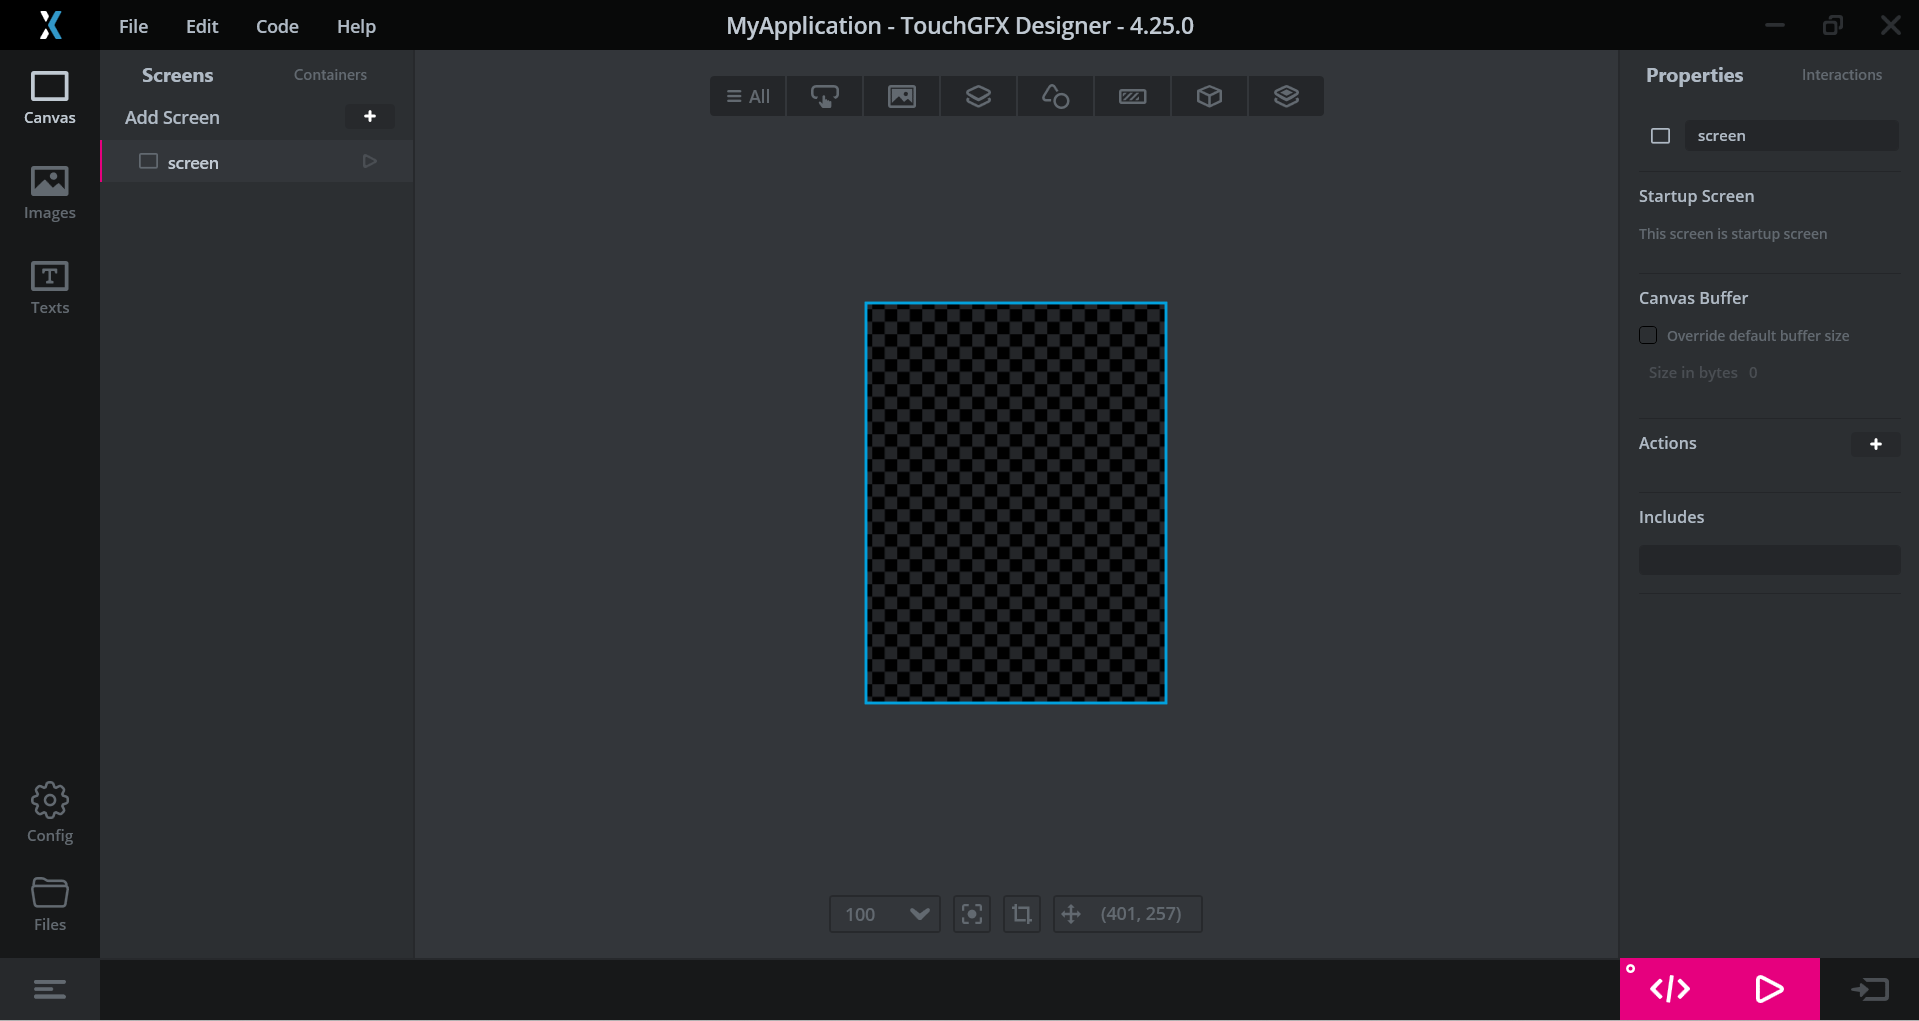
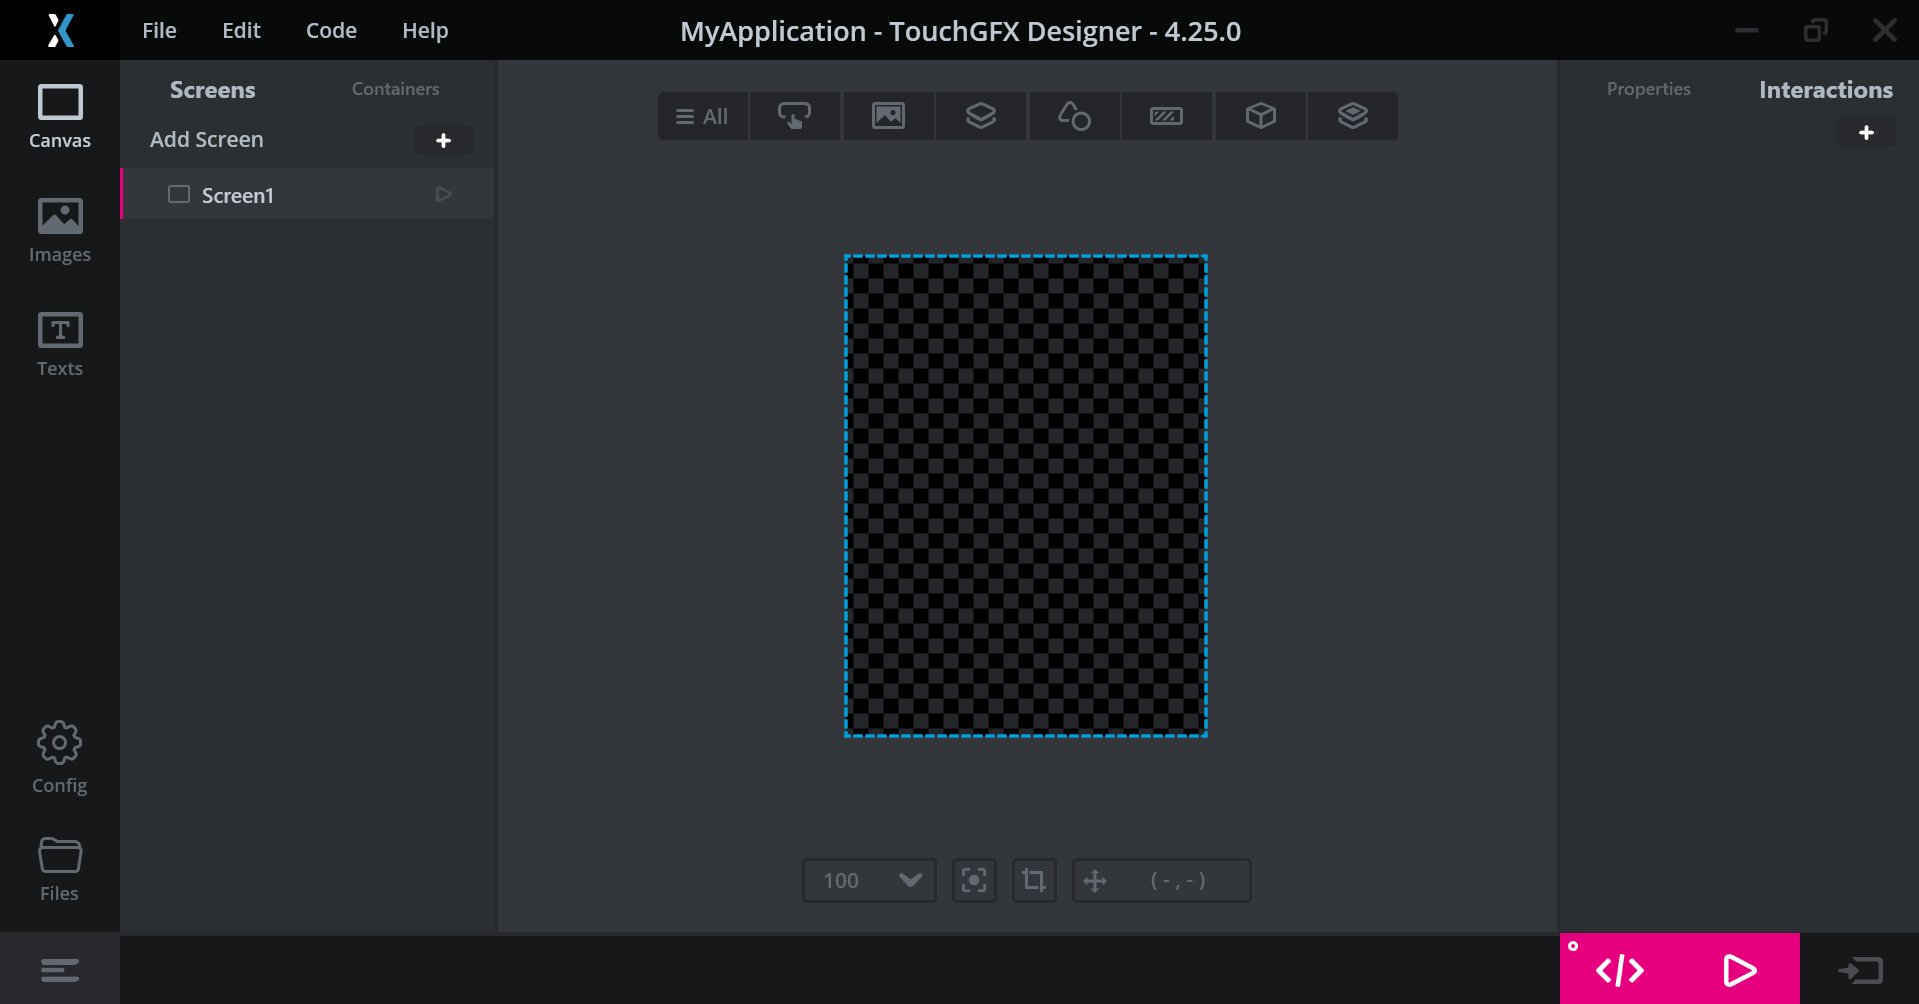
docs: fixed-docs

diff --git a/TouchGFX_Tutorial/BasicDemo.md b/TouchGFX_Tutorial/BasicDemo.md
@@ -32,7 +32,7 @@ Kısacası hem fiziksel butonla hem de ekrandaki butonlarla etkileşim kurduğum
     </div>
    <br />
 
-4- Böylece grafik arayüzümüzü tasarlayacağımız TouchGFX Designer ekranı açılmış oluyor. Oluşan screen'in adını Screen1 olarak değiştiriyoruz.
+4- Böylece grafik arayüzümüzü tasarlayacağımız TouchGFX Designer ekranı açılmış oluyor.
 
    <div align="center">
     <img width="50%" height="80%" src="../Documents/Images/BasicDemo/bos_project.png">
@@ -40,42 +40,37 @@ Kısacası hem fiziksel butonla hem de ekrandaki butonlarla etkileşim kurduğum
    <br />
 
 ## Adım 2: Arayüz Tasarımını Yapmak
-1- Öncelikle oluşan screen'in adını Screen1 olarak değiştiriyoruz.
 
-   <div align="center">
-    <img width="50%" height="80%" src="../Documents/Images/BasicDemo/screen_rename.png">
-    </div>
-   <br />
 
-2- Daha sonra ilk olarak arkaplan görseli ekleyerek başlıyoruz. Widget Panel'den Images alanından image öğesini ekliyoruz.
+1- İlk olarak arkaplan görseli ekleyerek başlıyoruz. Widget Panel'den Images alanından image öğesini ekliyoruz.
 
    <div align="center">
     <img width="50%" height="80%" src="../Documents/Images/BasicDemo/add_images.png">
     </div>
    <br />
 
-3- Image ekledikten, ekranın sağ tarafındaki 'Properties' (özellikler) bölümünden arka planı seçiyoruz.
+2- Image ekledikten, ekranın sağ tarafındaki 'Properties' (özellikler) bölümünden arka planı seçiyoruz.
 
    <div align="center">
     <img width="50%" height="80%" src="../Documents/Images/BasicDemo/background_select.png">
     </div>
    <br />
 
-4- Daha sonra  Widget Panel'den Shapes alanından Box With Border öğesini ekliyoruz ve ekrana uygun bir şekilde yerleştiriyoruz.
+3- Daha sonra  Widget Panel'den Shapes alanından Box With Border öğesini ekliyoruz ve ekrana uygun bir şekilde yerleştiriyoruz.
 
    <div align="center">
     <img width="50%" height="80%" src="../Documents/Images/BasicDemo/box_with_border.png">
     </div>
    <br />
 
-5- Box'u ekledikten sonra, sayaç değerini gösterecek yazıyı ekliyoruz. Bunun için yine Widget Panel'den Miscellaneous alanından 'TextArea' öğesini seçip ekran üzerine yerleştiriyoruz.
+4- Box'u ekledikten sonra, sayaç değerini gösterecek yazıyı ekliyoruz. Bunun için yine Widget Panel'den Miscellaneous alanından 'TextArea' öğesini seçip ekran üzerine yerleştiriyoruz.
 
    <div align="center">
     <img width="50%" height="80%" src="../Documents/Images/BasicDemo/textarea.png">
     </div>
    <br />
 
-6- TextArea’yı ekledikten sonra, sağ taraftaki Properties bölümünden bazı ayarlar yapmamız gerekiyor.  
+5- TextArea’yı ekledikten sonra, sağ taraftaki Properties bölümünden bazı ayarlar yapmamız gerekiyor.  
 
 * İlk olarak, Translation alanına geliyoruz ve buradan bir Wildcard ekliyoruz.
   
@@ -113,7 +108,7 @@ Kısacası hem fiziksel butonla hem de ekrandaki butonlarla etkileşim kurduğum
     </div>
    <br />
 
-7- Şimdi Reset Butonunu Ekleyelim.
+6- Şimdi Reset Butonunu Ekleyelim.
 
 * Widget Panel üzerinden Button with Label öğesini sürükleyip ekranımıza bırakıyoruz.
 
@@ -143,7 +138,7 @@ Kısacası hem fiziksel butonla hem de ekrandaki butonlarla etkileşim kurduğum
     </div>
    <br />
 
-8- İkinci bir yeni ekran ekleyelim.
+7- İkinci bir yeni ekran ekleyelim.
 * Yeni bir ekran eklemek için Screens alanına geliyoruz ve burada bulunan Add Screen butonuna basarak yeni bir ekran oluşturuyoruz. 
 
    <div align="center">
@@ -193,7 +188,7 @@ Kısacası hem fiziksel butonla hem de ekrandaki butonlarla etkileşim kurduğum
     </div>
    <br />
 
-9- İlk ekranımıza ekran geçiş butonu ekleyelim.
+8- İlk ekranımıza ekran geçiş butonu ekleyelim.
 * Ekran geçişi için kullanacağımız butonu eklemekle başlıyoruz. Bunun için, Widget Panel’den Button with Label öğesini sahneye ekliyoruz.
 
    <div align="center">
@@ -222,7 +217,7 @@ Kısacası hem fiziksel butonla hem de ekrandaki butonlarla etkileşim kurduğum
     </div>
    <br />
 
-10- Arayüz tasarımımızı tamamladık. Şimdi projemizi oluşturmak için TouchGFX Designer'da sağ üst köşede bulunan "Generate" butonuna tıklıyoruz. Generate butonuna bastıktan sonra TouchGFX, arayüz tasarımımızı STM32CubeIDE ile uyumlu hale getirecek ve gerekli dosyalar otomatik olarak oluşturulacaktır.
+9- Arayüz tasarımımızı tamamladık. Şimdi projemizi oluşturmak için TouchGFX Designer'da sağ üst köşede bulunan "Generate" butonuna tıklıyoruz. Generate butonuna bastıktan sonra TouchGFX, arayüz tasarımımızı STM32CubeIDE ile uyumlu hale getirecek ve gerekli dosyalar otomatik olarak oluşturulacaktır.
 
    <div align="center">
     <img width="50%" height="80%" src="../Documents/Images/BasicDemo/generate_project.png">
